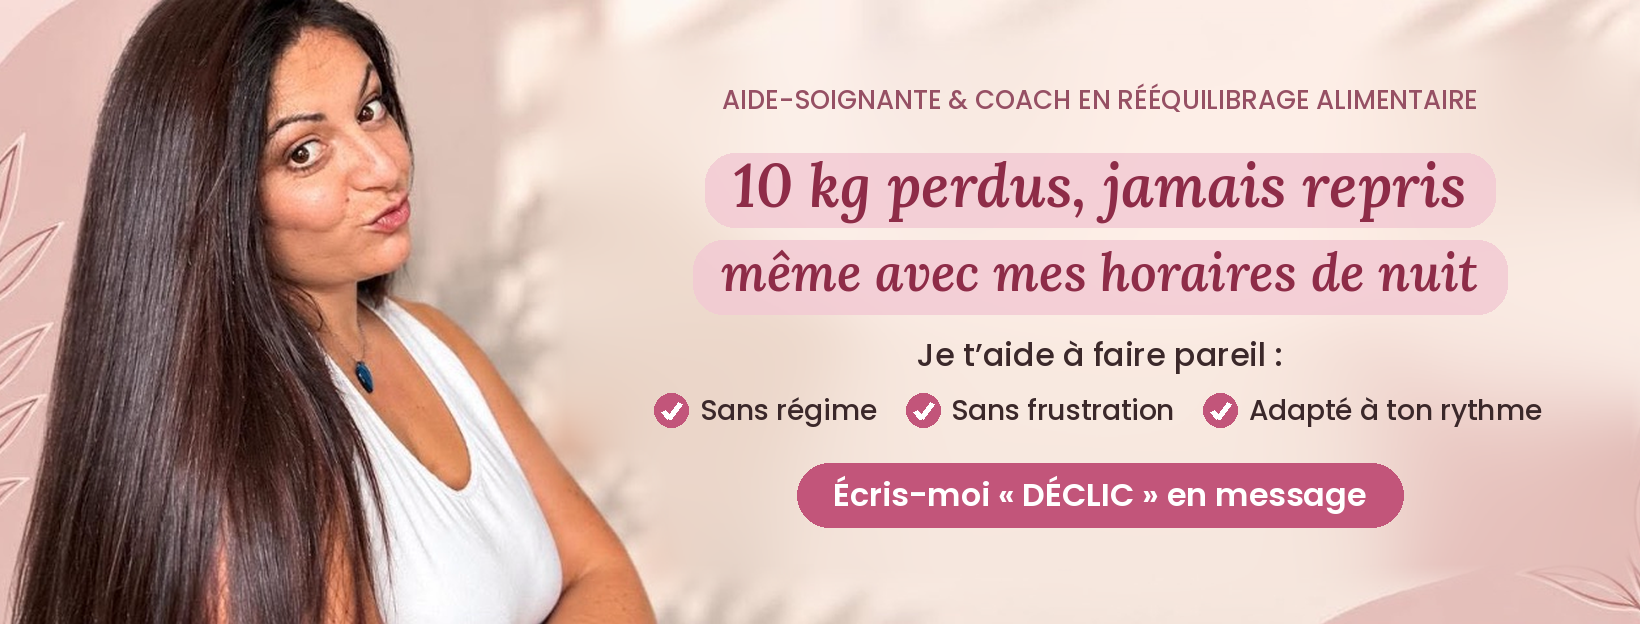
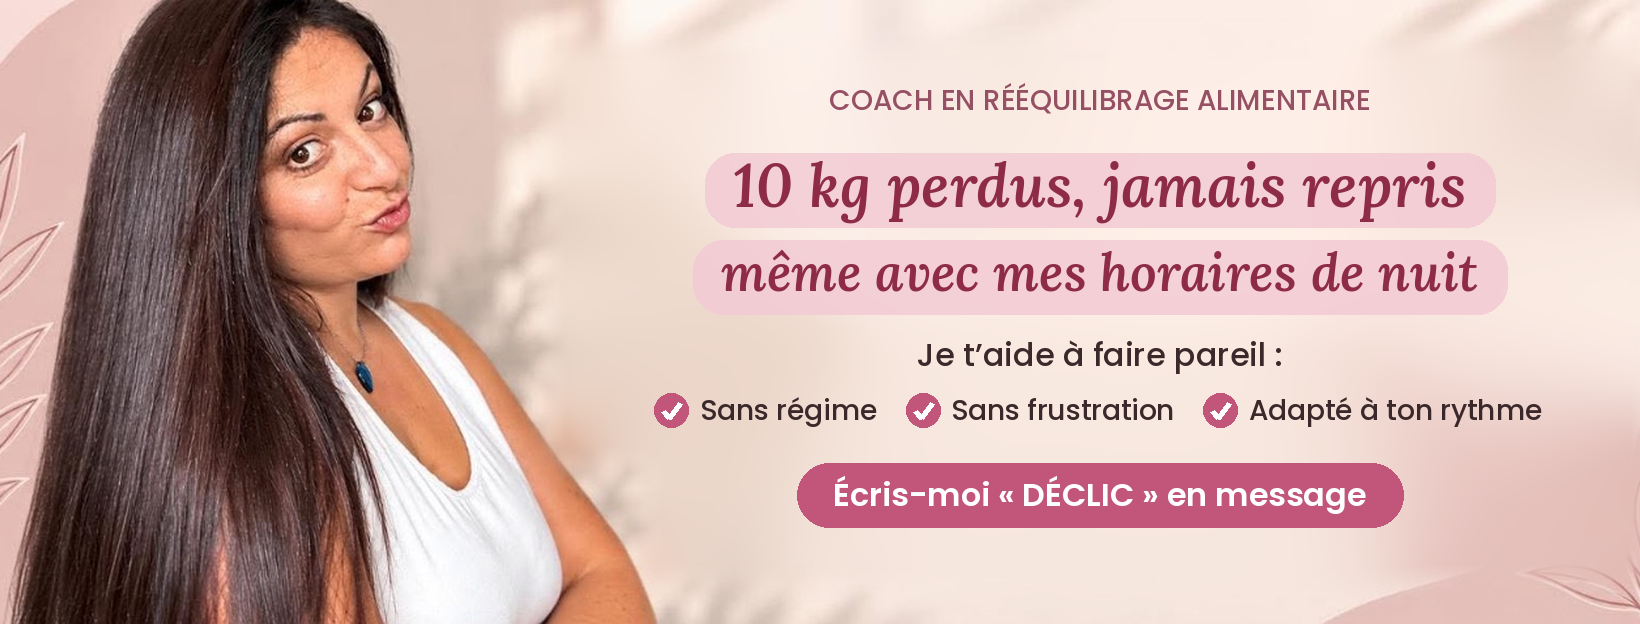
Couverture mélange sans « aide-soignante »
Claude-Session: https://claude.ai/code/session_01Qu7Kbk7XztmX7tXcsqwXcr

Changed region(s): [[0.4354, 0.1218, 0.9018, 0.1827]]

diff --git a/scripts/couverture_facebook.py b/scripts/couverture_facebook.py
@@ -54,7 +54,7 @@ elif VAR == "soignante":
     brush(200, "10 kg perdus, jamais repris", 62); brush(292, "même avec mes horaires de nuit", 56)
     center(385, "Je t’aide à faire pareil, à ton rythme", P(500, 40), DARK); bouton(475)
 elif VAR == "melange":
-    center(100, "AIDE-SOIGNANTE & COACH EN RÉÉQUILIBRAGE ALIMENTAIRE", P(500, 26), (150, 80, 100))
+    center(100, "COACH EN RÉÉQUILIBRAGE ALIMENTAIRE", P(500, 28), (150, 80, 100))
     brush(185, "10 kg perdus, jamais repris", 60); brush(272, "même avec mes horaires de nuit", 52)
     center(355, "Je t’aide à faire pareil :", P(500, 32), DARK)
     items = ["Sans régime", "Sans frustration", "Adapté à ton rythme"]; f = P(500, 28)

diff --git a/CLAUDE.md b/CLAUDE.md
@@ -119,4 +119,4 @@ Règles des stories qui marchent (à appliquer) :
 | 24/11/2026 | **Script YouTube « Tu as TOUT essayé pour perdre du poids ? Voici la VRAIE raison »** (hook, 5 raisons, vendre sans vendre, CTA, titre, miniature, description, chapitres, 6 MOFU repérés 🎬) | `scripts_videos/youtube_tout_essaye_vraie_raison.html` | Vidéo YouTube → Google Doc « Script YouTube – Tu as TOUT essayé ? » |
 | 24/11/2026 | **8 MOFU option C** tirés de la vidéo YouTube « Pourquoi ton régime ne fonctionne pas et ce n'est pas ta faute » (reçue par WeTransfer, sous-titres incrustés d'origine retirés par recadrage) | `contenus/2026-11-24_mofu_video_regime/` (vidéos sauvegardées dans le dépôt ; recette : `recette_montage.sh`, outil : `scripts/mofu.py`) | Pas sur le Drive (fichiers > 3 Mo) : envoyés dans le chat |
 | 24/11/2026 | **Couverture Facebook** 1640x624 (même photo et décor qu'avant, texte v2 : « COACH EN RÉÉQUILIBRAGE ALIMENTAIRE / Perds jusqu'à 10 kg en 3 mois / sans te prendre la tête / même avec une vie de dingue » (choix d'Hélène : « sans te prendre la tête », comme sa bio Instagram) + bouton « Écris-moi DÉCLIC en message », repris de sa version courte de promesse dans « Offre Oser se choisir »). Polices Poppins + Lora italique dans `modeles/fonts/`. | `contenus/2026-11-24_couverture_facebook/` (script : `scripts/couverture_facebook.py`) | Montage perso → « Couverture Facebook (24-11).png » |
-| 24/11/2026 | Couverture Facebook : 3 variantes (« question », « soignante », « checklist ») puis **version « mélange »** demandée par Hélène (soignante + checklist : « 10 kg perdus, jamais repris / même avec mes horaires de nuit / Je t'aide à faire pareil : ✓ Sans régime ✓ Sans frustration ✓ Adapté à ton rythme »). | `contenus/2026-11-24_couverture_facebook/couverture_*.png` (script : `scripts/couverture_facebook.py <capture> <sortie> <variante>`) | Montage perso → « Couverture Facebook mélange (24-11).png » |
+| 24/11/2026 | Couverture Facebook : 3 variantes (« question », « soignante », « checklist ») puis **version « mélange »** demandée par Hélène, **sans la mention « aide-soignante »** (elle ne veut pas l'afficher sur sa couverture) (soignante + checklist : « 10 kg perdus, jamais repris / même avec mes horaires de nuit / Je t'aide à faire pareil : ✓ Sans régime ✓ Sans frustration ✓ Adapté à ton rythme »). | `contenus/2026-11-24_couverture_facebook/couverture_*.png` (script : `scripts/couverture_facebook.py <capture> <sortie> <variante>`) | Montage perso → « Couverture Facebook mélange (24-11).png » |
